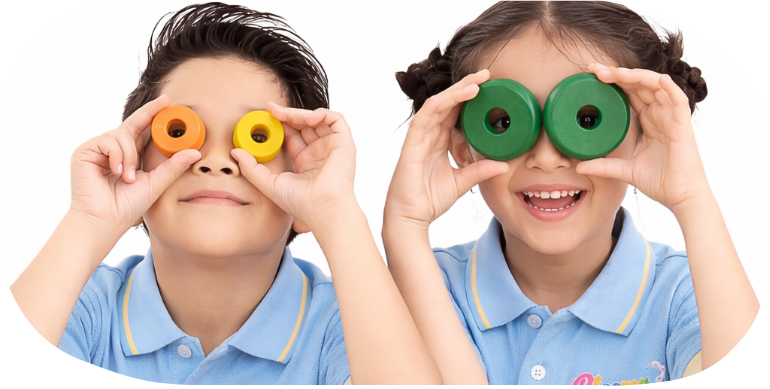
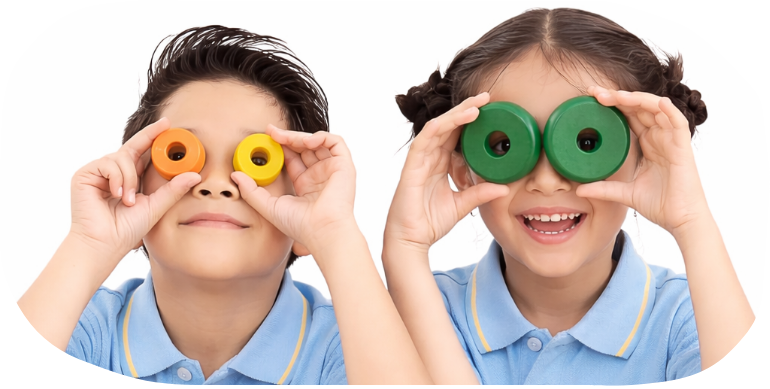
room

diff --git a/index.php b/index.php
@@ -471,6 +471,7 @@
         </div>
     </div>
     </section>
+    
     <!-- ========================= slider section start ========================= -->
     <!-- <div class="pb-110 position-relative">
         <img src="./assets/images/shape/brand-slider-shape1.png" alt="shape" class="position-absolute bottom-0 d-lg-block d-none animation-upDown tw-ms-16 tw-start-0 d-xxl-block d-none">
@@ -527,6 +528,7 @@
             <img src="./assets/images/shape/banner-shape6.png" alt="shape" class="position-absolute top-0 tw-end-0 d-lg-block d-none tw-me-174-px animation-scalation">
             <!-- <img src="./assets/images/shape/our-program-shaep1.png" alt="shape" class="position-absolute top-0 tw-start-0 d-lg-block d-none tw-ms-104-px"> -->
             <div class="container max-w-1500-px w-100">
+
                 <div class="text-center tw-mb-80-px">
                     <span class="text-white tw-text-505 fw-normal tw-mb-6" data-aos="fade-up" data-aos-duration="600" data-aos-delay="100">
                         Our Programs
@@ -538,95 +540,169 @@
                         Bloomy Preschool supports early development through fun, creativity, and a safe learning environment.
                     </p>
                 </div>
-                <div class="row gy-4">
-                    <div class="col-xxl-3 col-lg-3 col-sm-6">
-                        <div class="bg-white tw-py-4 tw-px-4 tw-rounded-2xl w-100 h-100 tw-transform-roted--5">
-                            <span class="tw-mb-5">
-                                <img src="./assets/images/bloomy-programs/2.png" alt="img">
-                            </span>
-                            <div class="text-center tw-pb-6">
-                                <span class="fw-semibold tw-text-base text-main-600 tw-mb-3">
-                                    (1.8-2.5 years)
+                <style>
+                    .program-box {
+                        border-radius: 16px;
+                        overflow: hidden;
+                        background: #fff;
+                        transition: 0.3s;
+                        box-shadow: 0 5px 20px rgba(0,0,0,0.08);
+                    }
+
+                    .program-box img {
+                        width: 100%;
+                        height: 220px;
+                        object-fit: cover;
+                    }
+
+                    .program-content {
+                        padding: 15px;
+                        text-align: center;
+                    }
+
+                    .program-box:hover {
+                        transform: translateY(-8px);
+                    }
+                </style>
+                <div class="swiper program-swiper-slider">
+                
+                    <div class=" gy-4 swiper-wrapper">
+                        <div class=" swiper-slide">
+                            <div class="bg-white tw-py-4 tw-px-4 tw-rounded-2xl w-100 h-100 tw-transform-roted-5">
+                                <span class="tw-mb-5">
+                                    <img src="./assets/images/bloomy-programs/5.png" alt="img">
                                 </span>
-                                <h2 class="fw-bold tw-text-30-px text-neutral-950 tw-mb-3 h5">
-                                    Playgroup
-                                </h2>
-                                <p class="fw-normal tw-text-base text-paragraph-500 tw-mb-4">
-                                    A gentle introduction to learning where children explore through play, music, and interactive activities. We focus on building comfort, social skills, and early motor development.
-                                </p>
-                                <div class="d-flex align-items-center justify-content-center">
-                                    <a href="program-details.php" class="tw-w-10 tw-h-10 bg-main-600 rounded-circle d-flex align-items-center justify-content-center tw-text-base text-white">
-                                        <i class="ph-bold ph-arrow-right"></i>
-                                    </a>
+                                <div class="text-center tw-pb-6">
+                                    <span class="fw-semibold tw-text-base text-main-600 tw-mb-3">
+                                        (1-2 years)
+                                    </span>
+                                    <h2 class="fw-bold tw-text-30-px text-neutral-950 tw-mb-3 h5">
+                                        Toddlers
+                                    </h2>
+                                    <p class="fw-normal tw-text-base text-paragraph-500 tw-mb-4">
+                                        Our program helps toddlers build communication, motor skills and social confidence through music, storytelling and guided play.
+                                    </p>
+                                    <div class="d-flex align-items-center justify-content-center">
+                                        <a href="toddlers-club-program.php" class="tw-w-10 tw-h-10 bg-main-600 rounded-circle d-flex align-items-center justify-content-center tw-text-base text-white">
+                                            <i class="ph-bold ph-arrow-right"></i>
+                                        </a>
+                                    </div>
                                 </div>
                             </div>
                         </div>
-                    </div>
-                    <div class="col-xxl-3 col-lg-3 col-sm-6">
-                        <div class="bg-white tw-py-4 tw-px-4 tw-rounded-2xl w-100 h-100 tw-transform-roted-5">
-                            <span class="tw-mb-5">
-                                <img src="./assets/images/bloomy-programs/3.png" alt="img">
-                            </span>
-                            <div class="text-center tw-pb-6">
-                                <span class="fw-semibold tw-text-base text-main-600 tw-mb-3">
-                                    (2.5–3.5 years)
+                        <div class=" swiper-slide">
+                            <div class="bg-white tw-py-4 tw-px-4 tw-rounded-2xl w-100 h-100 tw-transform-roted--5">
+                                <span class="tw-mb-5">
+                                    <img src="./assets/images/bloomy-programs/2.png" alt="img">
                                 </span>
-                                <h2 class="fw-bold tw-text-30-px text-neutral-950 tw-mb-3 h5">
-                                    Nursery
-                                </h2>
-                                <p class="fw-normal tw-text-base text-paragraph-500 tw-mb-4">
-                                    Encouraging curiosity and independence, our nursery program introduces basic concepts like colors, shapes, numbers, and language through structured yet playful learning.
-                                </p>
-                                <div class="d-flex align-items-center justify-content-center">
-                                    <a href="program-details.php" class="tw-w-10 tw-h-10 bg-main-600 rounded-circle d-flex align-items-center justify-content-center tw-text-base text-white">
-                                        <i class="ph-bold ph-arrow-right"></i>
-                                    </a>
+                                <div class="text-center tw-pb-6">
+                                    <span class="fw-semibold tw-text-base text-main-600 tw-mb-3">
+                                        (1.8-2.5 years)
+                                    </span>
+                                    <h2 class="fw-bold tw-text-30-px text-neutral-950 tw-mb-3 h5">
+                                        Playgroup
+                                    </h2>
+                                    <p class="fw-normal tw-text-base text-paragraph-500 tw-mb-4">
+                                        A gentle introduction to learning where children explore through play, music, and interactive activities. We focus on building comfort, social skills, and early motor development.
+                                    </p>
+                                    <div class="d-flex align-items-center justify-content-center">
+                                        <a href="play-group-program.php" class="tw-w-10 tw-h-10 bg-main-600 rounded-circle d-flex align-items-center justify-content-center tw-text-base text-white">
+                                            <i class="ph-bold ph-arrow-right"></i>
+                                        </a>
+                                    </div>
                                 </div>
                             </div>
                         </div>
-                    </div>
-                    <div class="col-xxl-3 col-lg-3 col-sm-6">
-                        <div class="bg-white tw-py-4 tw-px-4 tw-rounded-2xl w-100 h-100 tw-transform-roted--5">
-                            <span class="tw-mb-5">
-                                <img src="./assets/images/bloomy-programs/4.png" alt="img">
-                            </span>
-                            <div class="text-center tw-pb-6">
-                                <span class="fw-semibold tw-text-base text-main-600 tw-mb-3">
-                                    (3.5-4.5 years)
+                        <div class=" swiper-slide">
+                            <div class="bg-white tw-py-4 tw-px-4 tw-rounded-2xl w-100 h-100 tw-transform-roted-5">
+                                <span class="tw-mb-5">
+                                    <img src="./assets/images/bloomy-programs/3.png" alt="img">
                                 </span>
-                                <h2 class="fw-bold tw-text-30-px text-neutral-950 tw-mb-3 h5">
-                                    Junior KG
-                                </h2>
-                                <p class="fw-normal tw-text-base text-paragraph-500 tw-mb-4">
-                                    Focused on early academics and creativity, this stage develops language, numeracy, and problem-solving skills through engaging classroom activities and guided learning.
-                                </p>
-                                <div class="d-flex align-items-center justify-content-center">
-                                    <a href="program-details.php" class="tw-w-10 tw-h-10 bg-main-600 rounded-circle d-flex align-items-center justify-content-center tw-text-base text-white">
-                                        <i class="ph-bold ph-arrow-right"></i>
-                                    </a>
+                                <div class="text-center tw-pb-6">
+                                    <span class="fw-semibold tw-text-base text-main-600 tw-mb-3">
+                                        (2.5–3.5 years)
+                                    </span>
+                                    <h2 class="fw-bold tw-text-30-px text-neutral-950 tw-mb-3 h5">
+                                        Nursery
+                                    </h2>
+                                    <p class="fw-normal tw-text-base text-paragraph-500 tw-mb-4">
+                                        Encouraging curiosity and independence, our nursery program introduces basic concepts like colors, shapes, numbers, and language through structured yet playful learning.
+                                    </p>
+                                    <div class="d-flex align-items-center justify-content-center">
+                                        <a href="nursery-program.php" class="tw-w-10 tw-h-10 bg-main-600 rounded-circle d-flex align-items-center justify-content-center tw-text-base text-white">
+                                            <i class="ph-bold ph-arrow-right"></i>
+                                        </a>
+                                    </div>
                                 </div>
                             </div>
                         </div>
-                    </div>
-                    <div class="col-xxl-3 col-lg-3 col-sm-6">
-                        <div class="bg-white tw-py-4 tw-px-4 tw-rounded-2xl w-100 h-100 tw-transform-roted-5">
-                            <span class="tw-mb-5">
-                                <img src="./assets/images/bloomy-programs/6.png" alt="img">
-                            </span>
-                            <div class="text-center tw-pb-6">
-                                <span class="fw-semibold tw-text-base text-main-600 tw-mb-3">
-                                    (4.5-5.5 years)
+                        <div class=" swiper-slide">
+                            <div class="bg-white tw-py-4 tw-px-4 tw-rounded-2xl w-100 h-100 tw-transform-roted--5">
+                                <span class="tw-mb-5">
+                                    <img src="./assets/images/bloomy-programs/4.png" alt="img">
                                 </span>
-                                <h2 class="fw-bold tw-text-30-px text-neutral-950 tw-mb-3 h5">
-                                    Senior-KG
-                                </h2>
-                                <p class="fw-normal tw-text-base text-paragraph-500 tw-mb-4">
-                                    Preparing children for primary school with strong foundations in reading, writing, and mathematics, while nurturing confidence, communication, and independent thinking.
-                                </p>
-                                <div class="d-flex align-items-center justify-content-center">
-                                    <a href="program-details.php" class="tw-w-10 tw-h-10 bg-main-600 rounded-circle d-flex align-items-center justify-content-center tw-text-base text-white">
-                                        <i class="ph-bold ph-arrow-right"></i>
-                                    </a>
+                                <div class="text-center tw-pb-6">
+                                    <span class="fw-semibold tw-text-base text-main-600 tw-mb-3">
+                                        (3.5-4.5 years)
+                                    </span>
+                                    <h2 class="fw-bold tw-text-30-px text-neutral-950 tw-mb-3 h5">
+                                        Junior KG
+                                    </h2>
+                                    <p class="fw-normal tw-text-base text-paragraph-500 tw-mb-4">
+                                        Focused on early academics and creativity, this stage develops language, numeracy, and problem-solving skills through engaging classroom activities and guided learning.
+                                    </p>
+                                    <div class="d-flex align-items-center justify-content-center">
+                                        <a href="junior-kg.php" class="tw-w-10 tw-h-10 bg-main-600 rounded-circle d-flex align-items-center justify-content-center tw-text-base text-white">
+                                            <i class="ph-bold ph-arrow-right"></i>
+                                        </a>
+                                    </div>
+                                </div>
+                            </div>
+                        </div>
+                        <div class=" swiper-slide">
+                            <div class="bg-white tw-py-4 tw-px-4 tw-rounded-2xl w-100 h-100 tw-transform-roted-5">
+                                <span class="tw-mb-5">
+                                    <img src="./assets/images/bloomy-programs/6.png" alt="img">
+                                </span>
+                                <div class="text-center tw-pb-6">
+                                    <span class="fw-semibold tw-text-base text-main-600 tw-mb-3">
+                                        (4.5-5.5 years)
+                                    </span>
+                                    <h2 class="fw-bold tw-text-30-px text-neutral-950 tw-mb-3 h5">
+                                        Senior-KG
+                                    </h2>
+                                    <p class="fw-normal tw-text-base text-paragraph-500 tw-mb-4">
+                                        Preparing children for primary school with strong foundations in reading, writing, and mathematics, while nurturing confidence, communication, and independent thinking.
+                                    </p>
+                                    <div class="d-flex align-items-center justify-content-center">
+                                        <a href="senior-kg.php" class="tw-w-10 tw-h-10 bg-main-600 rounded-circle d-flex align-items-center justify-content-center tw-text-base text-white">
+                                            <i class="ph-bold ph-arrow-right"></i>
+                                        </a>
+                                    </div>
+                                </div>
+                            </div>
+                        </div>
+                        <div class=" swiper-slide">
+                            <div class="bg-white tw-py-4 tw-px-4 tw-rounded-2xl w-100 h-100 tw-transform-roted--5">
+                                <span class="tw-mb-5">
+                                    <img src="./assets/images/bloomy-programs/1.png" alt="img">
+                                </span>
+                                <div class="text-center tw-pb-6">
+                                    <span class="fw-semibold tw-text-base text-main-600 tw-mb-3">
+                                        (1.5-12 years)
+                                    </span>
+                                    <h2 class="fw-bold tw-text-30-px text-neutral-950 tw-mb-3 h5">
+                                        DayCare
+                                    </h2>
+                                    <p class="fw-normal tw-text-base text-paragraph-500 tw-mb-4">
+                                        Bloomy Preschool provides safe daycare with full supervision and care.
+                                        Includes play, meals, learning and rest in a home-like environment.
+                                    </p>
+                                    <div class="d-flex align-items-center justify-content-center">
+                                        <a href="day-care.php" class="tw-w-10 tw-h-10 bg-main-600 rounded-circle d-flex align-items-center justify-content-center tw-text-base text-white">
+                                            <i class="ph-bold ph-arrow-right"></i>
+                                        </a>
+                                    </div>
                                 </div>
                             </div>
                         </div>
@@ -993,6 +1069,30 @@
     <script>
         var awardsSwiper = new Swiper(".awards-swiper-slider", {
         slidesPerView: 4,
+        spaceBetween: 25,
+        loop: true,
+        speed: 2000,
+        autoplay: {
+            delay: 2500,
+            disableOnInteraction: false
+        },
+        breakpoints: {
+            300: {
+            slidesPerView: 1,
+            },
+            576: {
+            slidesPerView: 2,
+            },
+            992: {
+            slidesPerView: 3,
+            },
+            1200: {
+            slidesPerView: 4,
+            },
+        }
+        });
+        var programSwiper = new Swiper(".program-swiper-slider", {
+        slidesPerView: 3,
         spaceBetween: 25,
         loop: true,
         speed: 2000,

diff --git a/apply-for-admission.php b/apply-for-admission.php
@@ -142,6 +142,10 @@
             </div>
         </div>
     </section>
+    
+    <?php include('./layout/why-choose-index.php') ?>
+
+    <?php include('./layout/testimonial-index.php') ?>
 
     <?php include('./layout/newsletter.php') ?>
 
